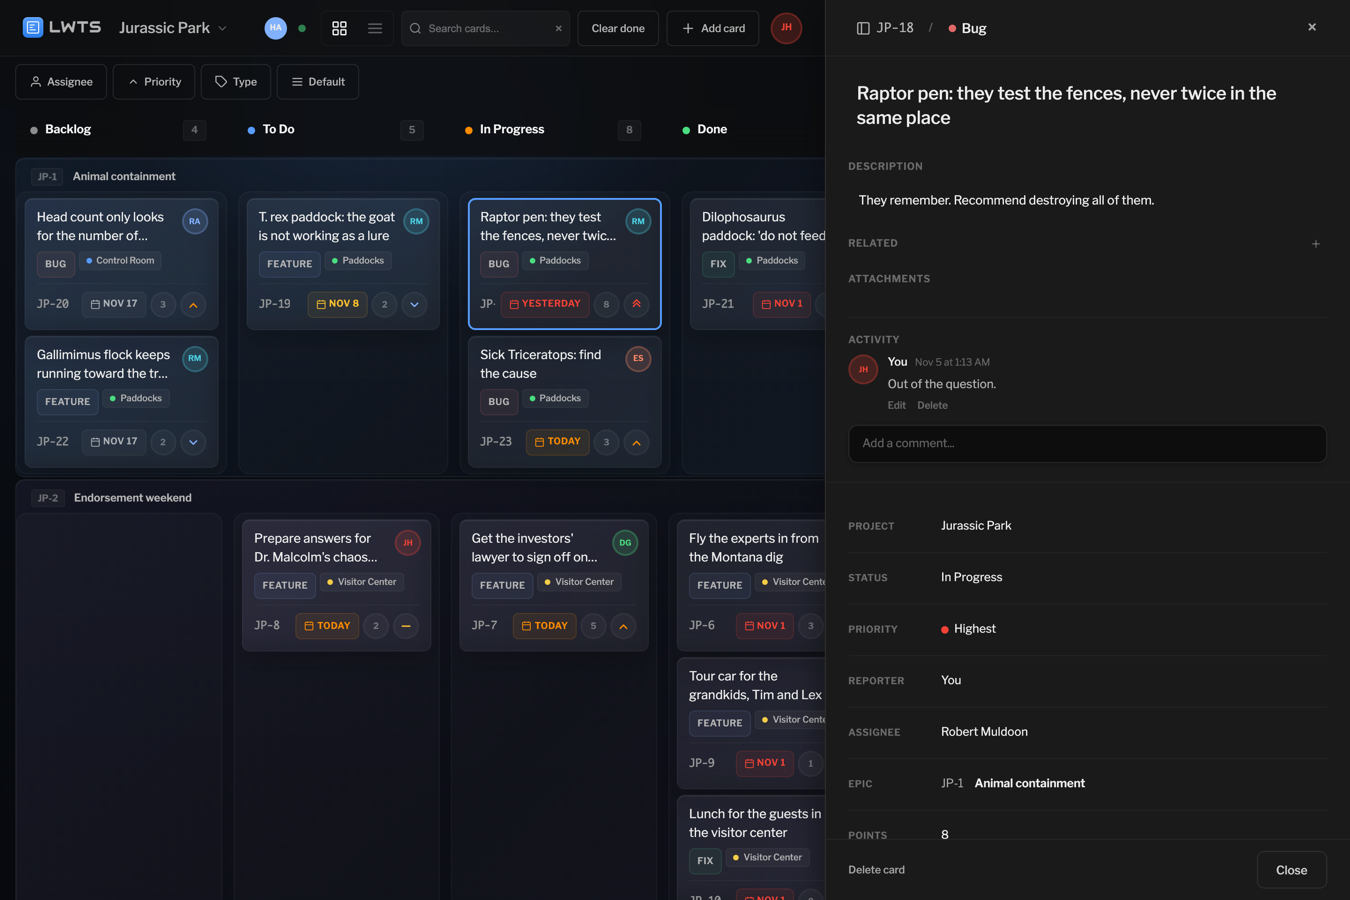
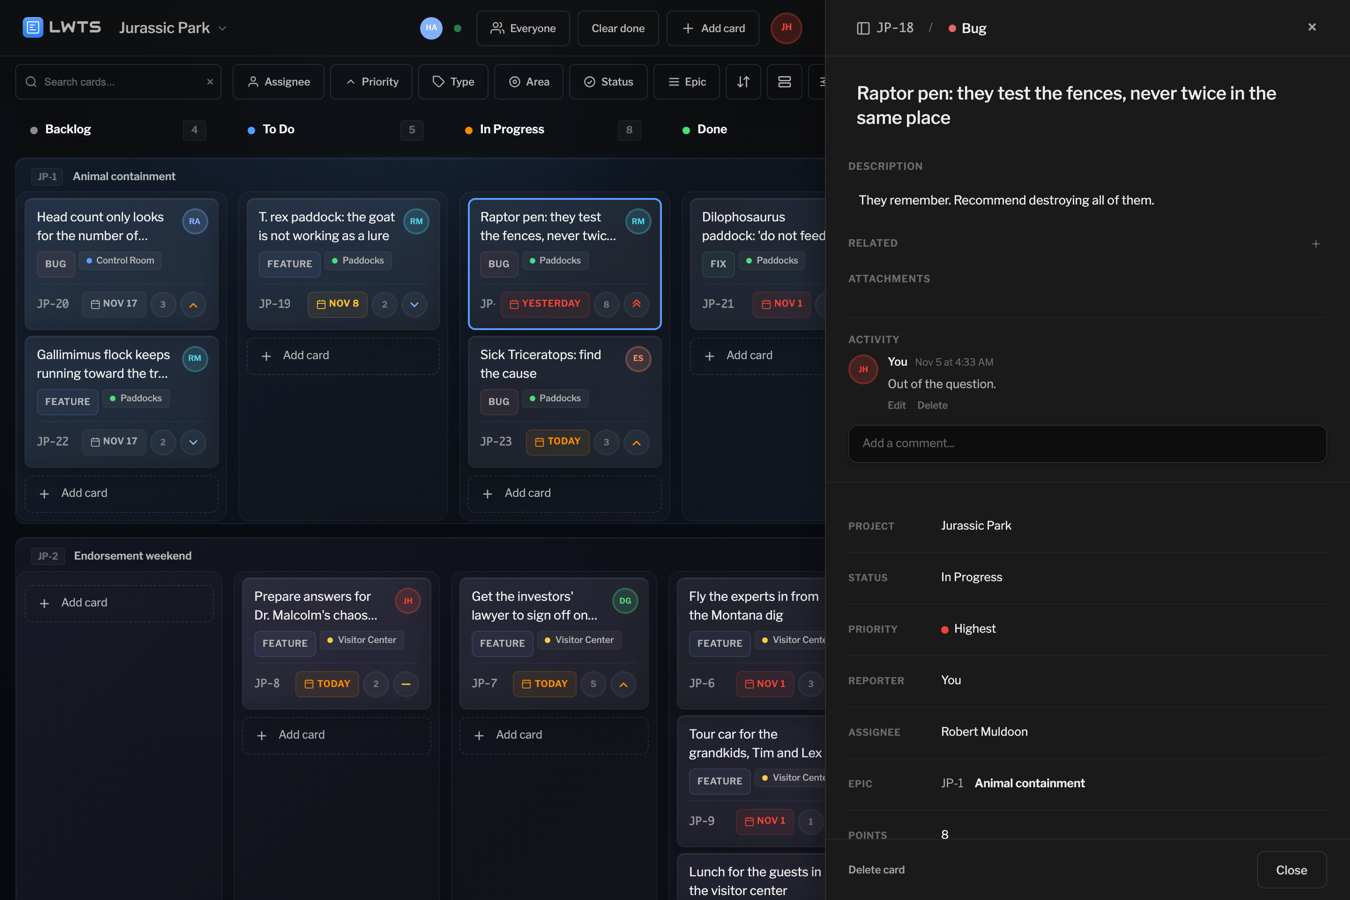
List the fork's additions in the README and refresh the screenshots

diff --git a/README.md b/README.md
@@ -59,6 +59,59 @@
 - **Multi-arch Docker** — `linux/amd64` and `linux/arm64` images
 - **AWS Lambda support** — deploy as a serverless function with Lambda Web Adapter
 
+## Additions in this fork
+
+Everything below works with the standard LWTS server; no extra services are needed. Each addition lives on its own
+branch so it can be taken on its own (branches marked *builds on* need the one they name).
+
+### Fixes
+
+| Fix | Branch |
+|---|---|
+| Opening a card (browser Back/Forward, a `#KEY` link) while the new-card form is open no longer loads it into the form or saves a copy | `fix/reopen-card-while-creating` |
+| The due date picker stays inside the window instead of running off the bottom | `fix/due-date-picker-placement` |
+| The status list in a card follows the current board's columns | `fix/status-options-per-board` |
+| The search box keeps filtering when the board or the list is drawn again (a live update, a sort, the next page of the list), and works together with the filter menus instead of bringing back cards they hide | `fix/search-after-redraw` (builds on `feat/card-key-tagline`) — *branch coming soon* |
+| **Editor and profile polish** — the description and comment editors grow with their text and keep the column's edge, with Save/Cancel on the right; Profile in the avatar menu edits your own avatar from any page (members too), and a new avatar shows at once | `fix/dropzone-and-editor-polish` |
+| **Phones and iOS Safari** — column tabs open at the top, show filtered counts and stay off the list view and settings; cards no longer appear late; the board menu spans the screen and pushes the page down; card sidebar menus are no longer cut off; text fields stop iOS from zooming in | `fix/mobile-safari` |
+
+### Features
+
+| Feature | Branch |
+|---|---|
+| **Side pane** — on wide screens a card opens in a resizable pane next to the board, which stays usable | `feat/card-side-pane` |
+| **New card on the board** — while a new card is being written it already shows on the board; closing the form saves it, Discard drops it | `feat/new-card-draft` |
+| **Epic in the new-card form** — pick the epic while creating a card | `feat/epic-in-new-card-form` |
+| **Epic as key and title** — the Epic field shows "ALP-9 Faster onboarding" instead of just the key | `feat/epic-key-and-title` |
+| **Type in the card header** — "ALP-12 / Bug", one row less in the sidebar | `feat/type-in-card-header` |
+| **New-card presets** — `openCreateModal(preset)` opens the form with a column, epic or other value already chosen | `feat/new-card-preset` |
+| **Dropdown search hardening** — password managers stay away from the dropdown search box | `feat/dropdown-search-hardening` |
+| **Filter row layout** — search, filters, density and the board/list switch share one row above the board; search is one column wide on wide screens and an icon on phones, where the row scrolls and the board name gets room in the header | `feat/filter-bar-layout` |
+| **Status filter** — choose which columns show on the board, the phone tabs and the list view, remembered per board; the phone tabs follow the open board's columns | `feat/status-filter` (builds on `feat/filter-bar-layout`) |
+| **Epic filter** — choose which epic swimlanes (and the lane without epic) show on the board and in the list view, remembered per board; a card moves to its new epic's lane as soon as the epic is picked | `feat/epic-lane-filter` (builds on `feat/status-filter`) |
+| **Sort cards** — a Sort button orders each column (and the list) by priority, title, key, last updated or created, or keeps the manual drag order, without changing the stored order; each board remembers its sort, board/list view and density | `feat/sort-cards` (builds on `feat/epic-lane-filter`) |
+| **Group by** — show the board in swimlanes by epic (the default on boards with epics), type, priority, assignee or a choice custom field switched on with "Add to Group by", or in plain columns; dragging a card into another lane sets that value; remembered per user and board | `feat/group-by` (builds on `feat/sort-cards`) |
+| **Custom field filters** — one filter menu per choice custom field of the open board, next to Type, with a "No <field>" choice; works on the board and in the list view | `feat/custom-field-filters` (builds on `feat/group-by`) |
+| **Filters per board** — the assignee, priority, type and custom field filters are remembered per user and board and come back when the board is opened again | `feat/persist-filters` (builds on `feat/custom-field-filters`) |
+| **Card properties** — a Properties button chooses what the cards show (type, priority, assignee, points, due date, key, each custom field) and, in the list view, which columns show; remembered per user, board and view. The grouped property is not repeated on the cards, and what the Appearance settings turn off stays off | `feat/card-properties` (builds on `feat/persist-filters`) |
+| **Add-card rows** — every column and lane cell ends in an "Add card" row that adds the card right there (its column, epic or Group by value); an epic without cards keeps its cells so cards can be added or dragged in; the whole column or cell takes a drop; phones get a round New card button for the open tab's column | `feat/add-card-rows` (builds on `feat/card-properties`) |
+| **Personal preferences** — the server keeps a small set of preferences for each user (`GET`/`PUT /api/v1/me/preferences`, merged key by key, `null` removes a key), which every role can change for itself, unlike the admin-only workspace settings | `feat/user-preferences` (builds on `feat/add-card-rows`) |
+| **Default board, delete board, Clear done and presence switches** — each user picks the board LWTS opens with (a star in the board picker or Settings > Boards) and it opens straight away, without passing through another board; Delete board (after a confirmation) is offered only to those who may delete the board, never on your default board; per board you can hide the Clear done button, and Settings > Team can hide the team presence avatars. These are personal choices, open to every role | `feat/default-board-and-clear-done` (builds on `feat/user-preferences`) |
+| **Board members** — a board can be limited to some people, each with a board role (owner, admin, member, viewer; viewers only read). Only its members and workspace owners and admins can open it; for everyone else the board, its cards, comments, search results and event stream do not exist. Boards without members stay open to the whole workspace as before. Manage members from the board's header button (a side pane, a modal on phones) or by board or by member in Settings > Team; the assignee list offers only people who can open the board (`GET`/`PUT`/`DELETE /api/v1/boards/{id}/members[/{user}]`) | `feat/board-members` (builds on `feat/default-board-and-clear-done`) — *branch coming soon* |
+| **Settings on phones** — the settings menu becomes a narrow icon rail beside the page, which scrolls on its own; fields and menus go under their label at full width while switches stay beside it; board columns and trigger rows fit the screen; the team list shows each role as a small pill next to the name, with "Add member" and "Create bot" rows under the lists | `feat/mobile-settings-layout` (builds on `feat/board-members`) — *branch coming soon* |
+| **Bottom navigation on phones** — a bar at the bottom of the board and the list holds Boards, Filter, New card, View and Account; each opens a sheet above it with the same board picker, search box, filter menus (assignee, priority, type, custom fields, status, epic), view menus (board or list, sort, Group by, properties, density) and account menu as on wide screens, each filter showing its current choice. It takes the place of the filter row, the avatar menu and the round New card button, whose + sits in its middle; a dot on Filter shows that something is filtered | `feat/mobile-bottom-nav` (builds on `feat/mobile-settings-layout`) — *branch coming soon* |
+| **Install as an app** — LWTS can be added to the home screen or installed from the browser and opens in its own window, with the LWTS icon. A small service worker always loads the app from the server when it can reach it, so a new version shows on the next load, and keeps the last copy of the app (never your data or anything from the API) so it still opens without a connection. It works whether LWTS is served at the root or under a sub-path | `feat/pwa` (builds on `feat/mobile-bottom-nav`) — *branch coming soon* |
+
+### Optional
+
+Design variants that are off unless a user switches them on for themselves in Settings > Appearance > Your layout
+(kept in the personal preferences, so each person chooses). Each lives on its own branch.
+
+| Variant | Branch |
+|---|---|
+| **Key under the title** — the card key becomes a small line under the title and the type chip moves to the card footer's left side, with slightly tighter card spacing; the Properties and Appearance switches for key and type still apply | `feat/card-key-tagline` (builds on `feat/pwa`) — *branch coming soon* |
+| **Search in place** — typing in the search box only filters the open board or list, without the results list over the page; Enter or the down arrow opens the results from all boards when you want them | `feat/inline-search` (builds on `fix/search-after-redraw`) — *branch coming soon* |
+
 ## Quick Start
 
 ### Binary
@@ -259,6 +312,8 @@ GET    /api/v1/boards/:id/webhooks/:id/deliveries # Delivery logs
 GET    /api/v1/search?q=term        # Full-text search
 GET    /api/v1/settings/general     # Get settings
 PUT    /api/v1/settings/general     # Update settings
+GET    /api/v1/me/preferences       # Your own preferences
+PUT    /api/v1/me/preferences       # Merge into your preferences (null removes a key)
 GET    /api/v1/keys                 # List API keys
 POST   /api/v1/keys                 # Create API key
 DELETE /api/v1/keys/:id             # Revoke API key
@@ -449,3 +504,7 @@ cd tf && terraform apply
 ## License
 
 [MIT](LICENSE)
+
+## Development of this fork
+
+This fork is developed with the help of [Claude Code](https://claude.com/claude-code), Anthropic's AI coding tool. Every change is tested, and reviewed before it is published.
